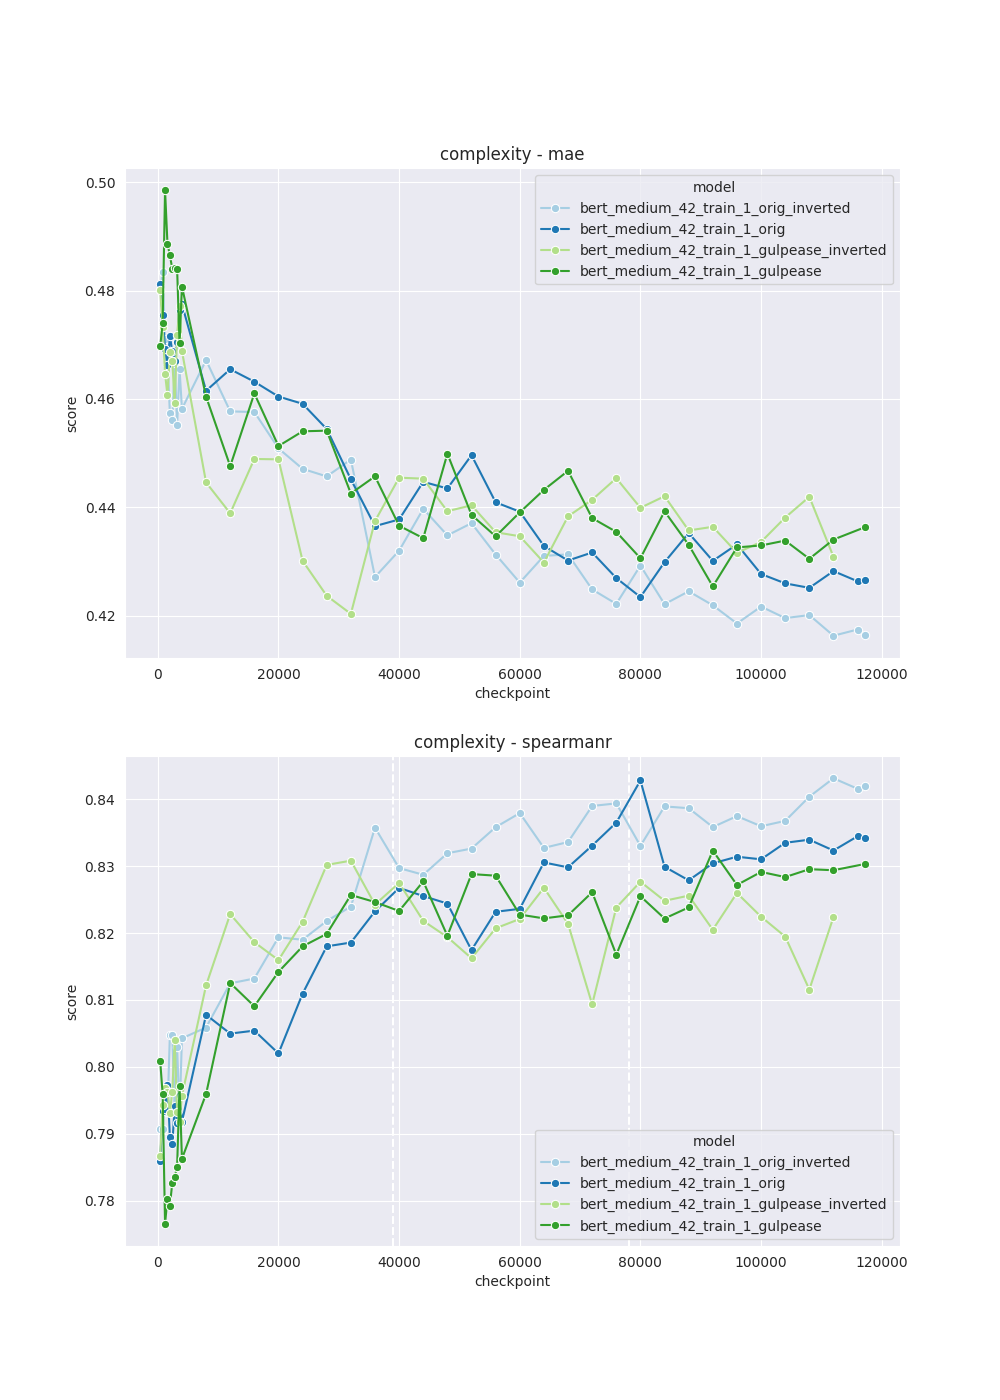
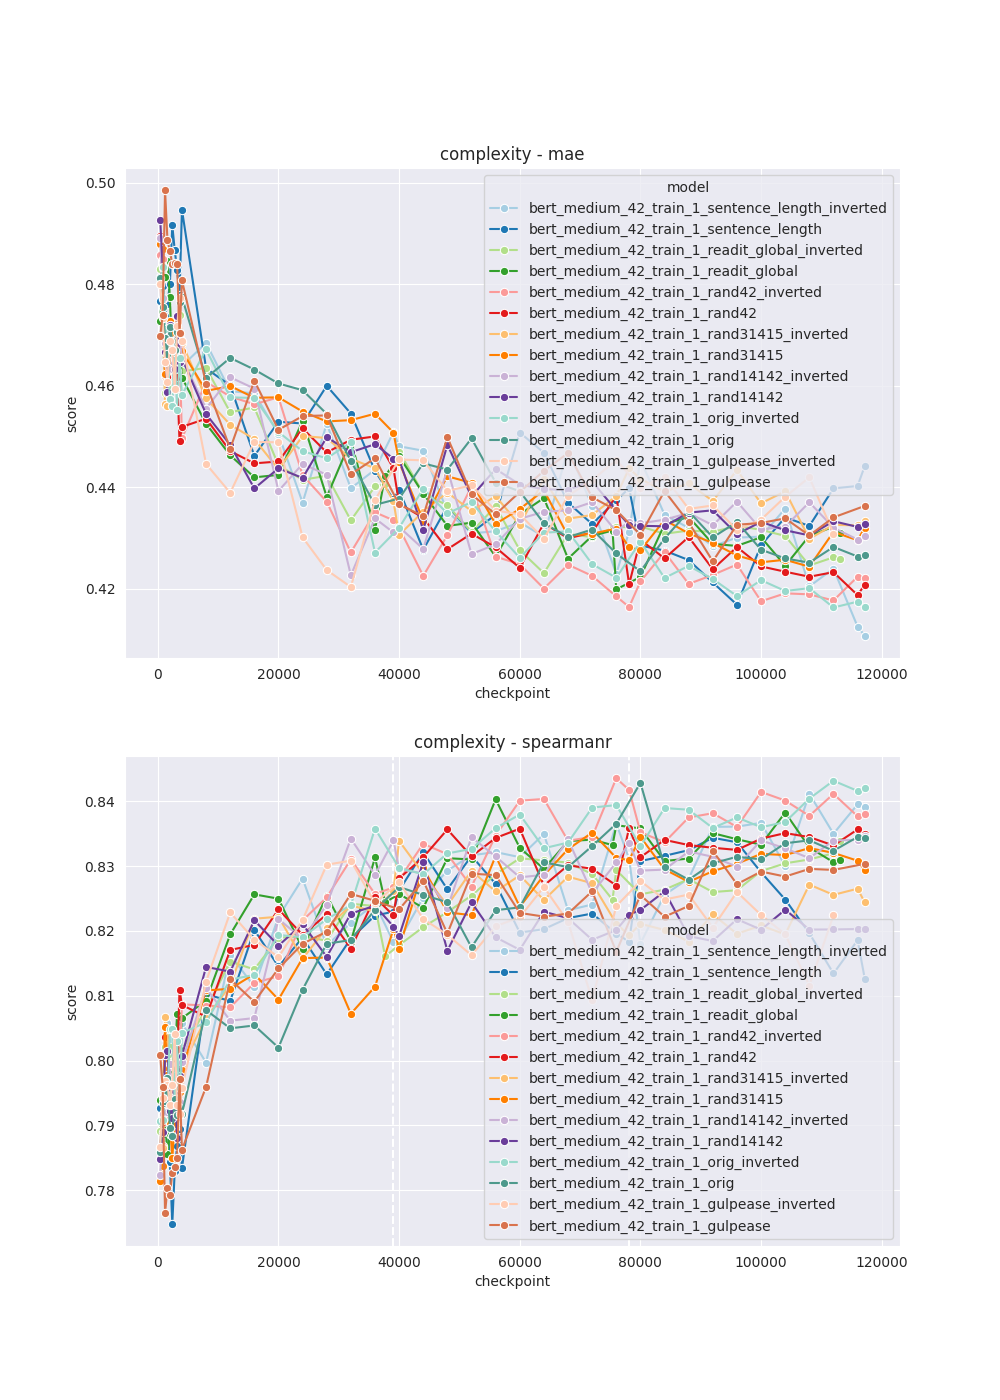
added missing results

diff --git a/README.md b/README.md
@@ -27,8 +27,8 @@ Model performances 🏋
 | RandX_I        |         |          |              |           |            |             |
 | Gulpease       | X       | X        | X            | X         | X          | X           |
 | Gulpease_I     | X       | X        | X            | X         | X          | X           |
-| Sentence_len   | X       | X        | X            |           |            |             |
-| Sentence_len_I | X       | X        | X            |           |            |             |
+| Sentence_len   | X       | X        | X            | X         | X          | X           |
+| Sentence_len_I | X       | X        | X            | X         | X          | X           |
 | Readit         | X       | X        | X            | X         | X          | X           |
 | Readit_I       | X       | X        | X            | X         | X          | X           |
 
